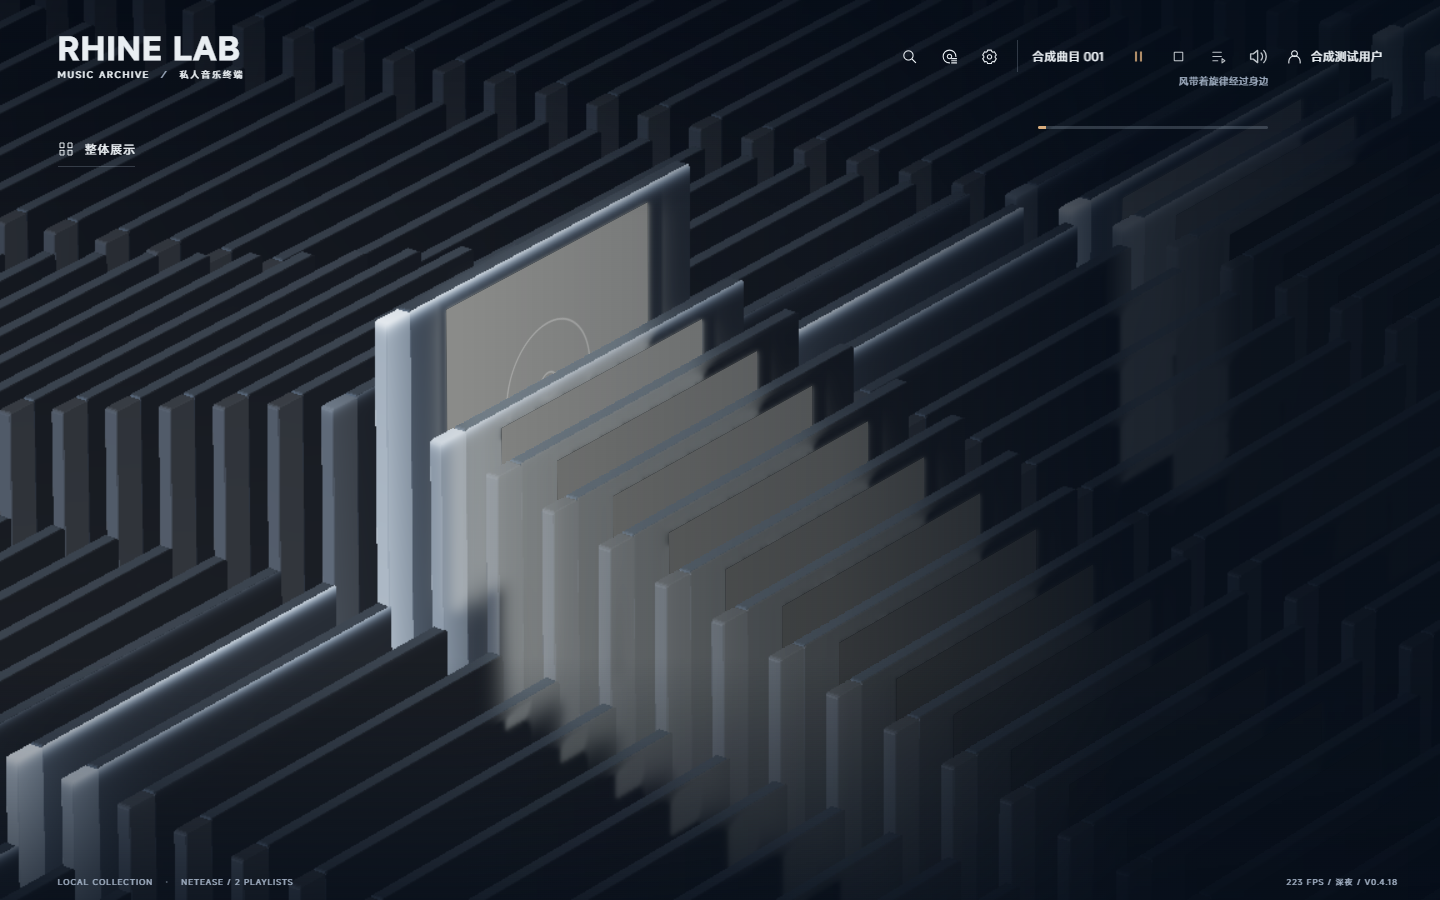
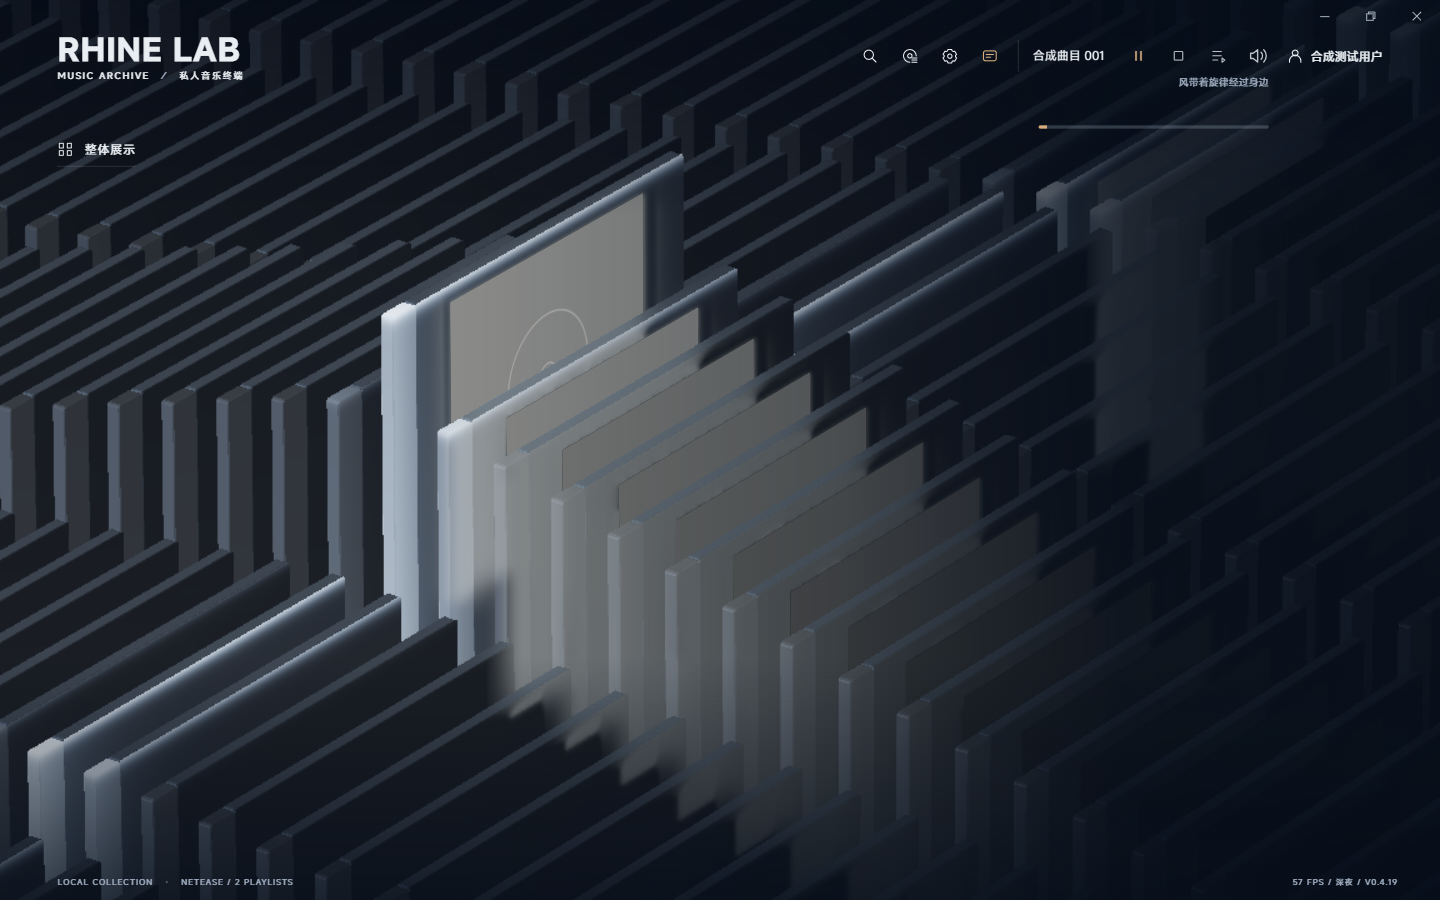
Restore full AMLL lyric animation

diff --git a/src/amll-lyrics.ts b/src/amll-lyrics.ts
@@ -26,14 +26,29 @@ export class AmlLyricSurface {
     this.host = host;
     this.seek = seek;
     this.player = new LyricPlayer();
-    this.player.setEnableBlur(false);
+    // Keep AMLL's complete Apple Music style renderer enabled.  The renderer
+    // owns line springs, scale hierarchy, blur falloff, gradient word masks,
+    // interlude dots and background vocal placement; this wrapper only feeds it
+    // the clock and the parsed lyric document.
+    this.player.setEnableBlur(true);
     this.player.setEnableScale(true);
     this.reducedMotion = matchMedia("(prefers-reduced-motion: reduce)").matches;
     this.player.setEnableSpring(!this.reducedMotion);
     this.player.setEnableScale(!this.reducedMotion);
+    this.player.setAlwaysPostpositionBackground(true);
+    this.player.setHidePassedLines(false);
+    this.player.setEnableAutoSeekDetection(true);
+    this.player.setLyricProcessConfig({ optimizeOptions: {
+      normalizeSpaces: false,
+      resetLineTimestamps: false,
+      syncMainAndBackgroundLines: true,
+      cleanUnintentionalOverlaps: true,
+      tryAdvanceStartTime: true,
+    } });
     this.player.setAlignPosition(0.42);
     this.player.setOverscanPx(240);
-    this.player.setWordFadeWidth(0.5);
+    // AMLL documents this value as its Apple Music for Android style.
+    this.player.setWordFadeWidth(1);
     this.player.addEventListener("line-click", event => {
       // AMLL moves the visual line start earlier for its entrance animation.
       // Audio seeking must use the unmodified source timestamp.
@@ -74,7 +89,8 @@ export class AmlLyricSurface {
     if (!this.canRender()) { this.player.pause(); this.stop(); return; }
     this.player.setCurrentTime(next * 1000, jump);
     if (playing) this.player.resume(); else { this.player.pause(); this.settleUntil = now + 1200; }
-    this.start();
+    if (this.reducedMotion) { this.player.update(0); this.stop(); }
+    else this.start();
   }
 
   setVisible(visible: boolean) {
@@ -91,7 +107,7 @@ export class AmlLyricSurface {
       if (this.playing) this.player.resume();
       else this.player.pause();
       this.settleUntil = performance.now() + 1200;
-      this.start();
+      if (!this.reducedMotion) this.start(); else this.player.update(0);
     } else {
       this.player.pause();
       this.stop();
@@ -104,7 +120,11 @@ export class AmlLyricSurface {
     this.player.setEnableSpring(!reduced);
     this.player.setEnableScale(!reduced);
     this.settleUntil = performance.now() + (reduced ? 0 : 1200);
-    if (this.canRender()) { this.player.update(0); this.start(); }
+    this.player.setEnableBlur(!reduced);
+    if (this.canRender()) {
+      this.player.update(0);
+      if (!reduced) this.start(); else this.stop();
+    }
   }
 
   reset() {

diff --git a/src/music-song-view.css b/src/music-song-view.css
@@ -211,11 +211,23 @@
 #song-lyrics .amll-lyric-player {
   --amll-lp-color: var(--ink);
   --amll-lp-font-size: clamp(24px, 2vw, 32px);
+  --amll-lp-bg-line-scale: .7;
+  --amll-lp-bottom-line-font-size: max(.7em, 12px);
   --amll-lp-hover-bg-color: color-mix(in srgb, var(--ink) 6%, transparent);
   --amll-lp-line-width-aspect: .96;
-  --amll-lp-line-padding-x: .25em;
-  mix-blend-mode: normal;
+  --amll-lp-line-padding-x: .35em;
+  mix-blend-mode: plus-lighter;
   font-family: inherit;
   font-weight: 600;
   line-height: 1.55;
+}
+#song-lyrics[data-engine="amll"] .FmKaba_lyricMainLine {
+  text-wrap: pretty;
+}
+#song-lyrics[data-engine="amll"] .FmKaba_lyricLineWrapper {
+  border-radius: .18em;
+}
+#song-lyrics[data-engine="amll"] .FmKaba_lyricLineWrapper:focus-visible {
+  outline: 1px solid color-mix(in srgb, var(--accent) 75%, transparent);
+  outline-offset: 3px;
 }

diff --git a/docs/RELEASE-0.4.19-VALIDATION.md b/docs/RELEASE-0.4.19-VALIDATION.md
@@ -1,0 +1,17 @@
+# 0.4.19 验证记录
+
+日期：2026-11-05。Windows x64，WebView2，150% 系统缩放。测试使用独立数据目录、合成账号和静音音频。
+
+- 23 项歌词解析、接口回退、歌单顺序及异步请求检查通过。
+- 歌单整理界面检查通过：手动调整、名称和歌曲数量排序、筛选、重开、账号隔离、1200 首歌曲虚拟列表。
+- 原生窗口 1024×768、1280×800、1440×900、1920×1080 回归通过，包含图标中线、数字基线、详情间距、歌单转场和搜索返回。排序不改变当前选中的歌曲。
+- 逐字歌词支持渐进高亮、点击定位、暂停、后退定位、切页恢复和深浅主题。降低动态效果时关闭缩放和弹性滚动。没有逐字时间轴时回退逐行歌词，不生成虚假的逐字时间。
+- 逐字渲染测试在 700 毫秒内更新约 42 次；暂停稳定后及隐藏时，400 毫秒观察窗口内更新次数为零。
+- 任务栏歌词的独立 WebView、340×40 逻辑像素布局、最小化后显示、原生命中和停止后隐藏检查通过。托盘浮窗的位置与播放控制通过原生回归。
+- 生产构建与带锁文件的 Windows 原生构建通过。安装器编译通过，Microsoft WebView2 引导程序签名验证通过。
+
+主界面 JavaScript 从约 780 KB 变为 413 KB；约 373 KB 的逐字渲染模块改为按需加载。三维画质参数没有调整。该体积变化不能直接换算成启动时间或帧率提升；首次着色器编译仍有开销。
+
+当前截图见 `docs/media/current`。详细测试结果位于忽略的 `artifacts/current-native-ux`、`artifacts/word-lyrics`、`artifacts/desktop-ui`。
+
+未覆盖：真实平台账号授权、所有歌曲的逐字歌词可用性、Intel/AMD 核显以及 macOS 实机。安装器的本机覆盖安装结果另行记录，不以编译通过代替安装验收。
